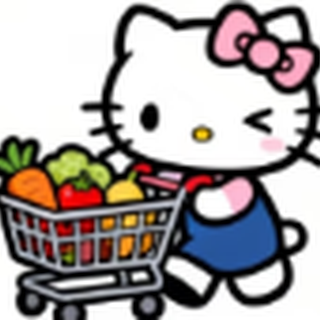
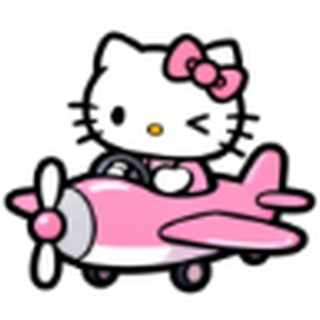
feat: 信息资讯图标换 Kitty 飞机; 原购物车图标存为记账备用(分支开发)
- 用户提供的 Hello Kitty 开粉色飞机图(白底立绘,96x86) -> 覆写 kitty-cart-* 全套(8文件), 作信息资讯模块图标/按钮
- 原 kitty-cart-*(Kitty 购物车) -> 复制为 kitty-bookkeeping-* 全套(9文件), 留作「每日记账」模块图标
- SW 缓存升至 v3.0.1(CACHE_NAME) 强制刷新
- 分支开发 feat/icon-news-to-airplane, 待用户确认后再合入 mainline-v3.0.0
- fill ratio 同档: 飞机 40.2% / 购物车 57% / 学习 43.7%

diff --git a/sw.js b/sw.js
@@ -1,7 +1,7 @@
 /* Hello Kitty 治愈工作台 — Service Worker
    离线优先缓存策略 + Kitty 立绘缓存 */
 
-const CACHE_NAME = 'kitty-wb-v3.0.0';
+const CACHE_NAME = 'kitty-wb-v3.0.1';
 const STATIC_ASSETS = [
   './',
   './index.html',
